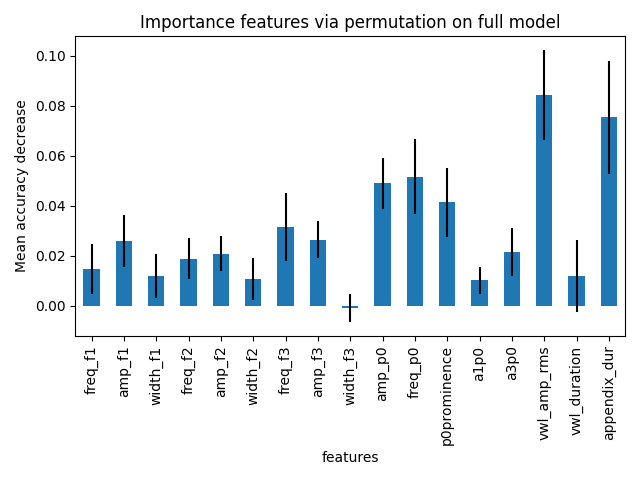
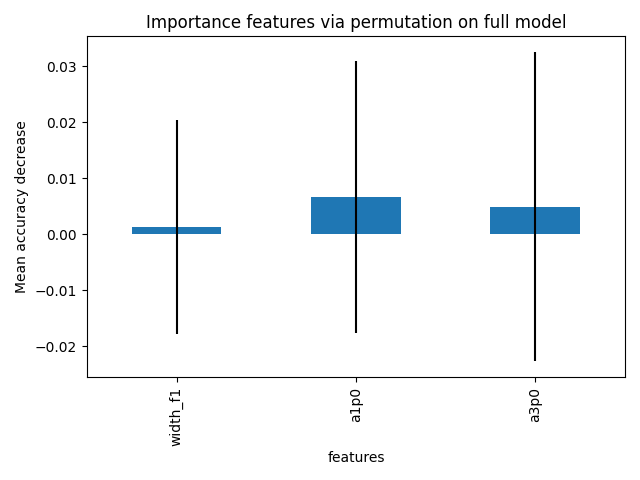
doing some tests

diff --git a/py_files/decision_tree/rand_forest_classifier.py b/py_files/decision_tree/rand_forest_classifier.py
@@ -47,6 +47,28 @@ def main():
     df = pd.read_csv(
         "../../data/ML Copy - FRENCH RESULTS - 2025 - Matching Datasets (VLOOKUP).csv"
     )
+    # x = df.drop(
+    #     columns=[
+    #         "clarity",
+    #         "timepoint",
+    #         "freq_f1",
+    #         "amp_f1",
+    #         "freq_f2",
+    #         "amp_f2",
+    #         "width_f2",
+    #         "freq_f3",
+    #         "amp_f3",
+    #         "width_f3",
+    #         "amp_p0",
+    #         "freq_p0",
+    #         "p0prominence",
+    #         "vwl_amp_rms",
+    #         "vwl_duration",
+    #         "appendix_dur",
+    #         "Label",
+    #     ]
+    # )
+
     x = df.drop(columns=["clarity", "timepoint", "Label"])
     y = df["Label"]
 
